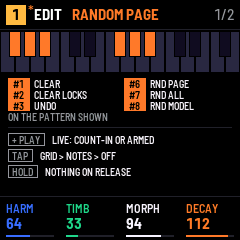
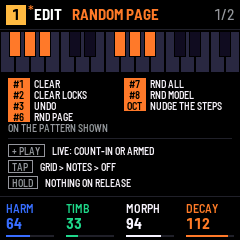
NUDGE: REC held, OCT- or OCT+ turns a STEP pattern's steps one step left or right, p-locks with them

Changed region(s): [[0.0292, 0.4375, 0.9625, 0.7875], [0.525, 0.3208, 0.9333, 0.4667]]

diff --git a/app/ui.c b/app/ui.c
@@ -264,6 +264,7 @@ static int cond_index(int c);
 static void step_on(q_step *s);
 static void step_default(q_step *s);
 static void attr_turn(q_step *s, int a, int d);
+static void nudge(int d);
 static const uint8_t SN_ATTR[3][4] = {{A_NOTE, A_LEN, A_VEL, A_PROB}, {A_RATCHET, A_COND, A_MICRO}, {A_SLIDE, A_ACCENT}};   /* P_SN1..3 */
 static int kit(void) { return ui.p->sound[ui.track].model == M_KIT; }
 
@@ -900,6 +901,8 @@ static void button(int b)
     case B_OCTUP:
         d = b == B_OCTUP ? 1 : -1;
         if (ui.rec == R_LIVE && ui.btn >> B_REC & 1u) {    /* REC held in LIVE: OCT- erases (live_erase) */
+        } else if (ui.btn >> B_REC & 1u) {             /* REC held: NUDGE */
+            nudge(d);
         } else if (grid_on() && ui.held) {     /* the held step's length */
             q_step *s = &pat()->steps[ui.held - 1];
             s->len = (uint8_t)len_step(s->len, d);
@@ -1120,13 +1123,14 @@ static void pattern_set(int n)
    paste it. A paste replaces what is there: it asks for a second press. The clipboards stay till power-off */
 enum { COPY_PAT = 1, COPY_AGAIN, COPY_PAT_PASTED, COPY_SND, COPY_SND_PASTED, COPY_NONE, COPY_UNDONE, COPY_REDONE,
        COPY_NO_UNDO, COPY_AGAIN_LOAD, COPY_UNSAVED_LOAD, COPY_AGAIN_PRINT, COPY_PRINTING, COPY_PRINTED, COPY_PLAY_PRINT,
-       COPY_DOUBLED, COPY_TOO_LONG, COPY_PROJECT, COPY_N = COPY_PROJECT + Q_PROJECTS };   /* (the header's messages for
+       COPY_DOUBLED, COPY_TOO_LONG, COPY_NUDGE_L, COPY_NUDGE_R, COPY_PROJECT, COPY_N = COPY_PROJECT + Q_PROJECTS };   /* (the header's messages for
                                                        the copies, UNDO and the projects: COPY_PROJECT + n, project n) */
 static const char *const COPY_NAME[COPY_N - 1] = {"PATTERN COPIED", "AGAIN: PASTE", "PATTERN PASTED", "SOUND COPIED",
                                                    "SOUND PASTED", "NOTHING COPIED", "UNDONE", "REDONE",
                                                    "NOTHING TO UNDO", "AGAIN: LOAD", "UNSAVED: LOAD?", "AGAIN: PRINT",
                                                    "PRINTING", "PRINTED", "PLAY TO PRINT", "LEN DOUBLED",
-                                                   "TOO LONG TO DOUBLE", "PROJECT 1", "PROJECT 2",
+                                                   "TOO LONG TO DOUBLE", "STEPS LEFT", "STEPS RIGHT", "PROJECT 1",
+                                                   "PROJECT 2",
                                                    "PROJECT 3", "PROJECT 4"};   /* COPY_* - 1 */
 static struct { q_pattern pat; q_sound snd; q_pad pads[Q_PADS]; uint8_t has_pat, has_snd; } clip;   /* (.bss: the pool
                                                                          keeps its 4 KB spare, fm1.toml pool_spare) */
@@ -1322,6 +1326,32 @@ static void double_key(void)
     t->len = (uint8_t)(2 * n);
     ui.dirty = 1;
     copy_msg(COPY_DOUBLED, MSG_MS);
+}
+
+/* REC held, OCT- or OCT+ out of LIVE: a STEP pattern's steps 1..LEN turned one step left or right, p-locks with them */
+static void nudge(int d)
+{
+    q_pattern *t;
+    q_step s;
+    int n, i;
+    if (pat()->src != SRC_STEP)
+        return;
+    undo_keep(UNDO_PAT);
+    t = pat(), n = t->len;
+    if (d > 0) {
+        s = t->steps[n - 1];
+        __builtin_memmove(&t->steps[1], &t->steps[0], (uint32_t)(n - 1) * sizeof s);
+        t->steps[0] = s;
+    } else {
+        s = t->steps[0];
+        __builtin_memmove(&t->steps[0], &t->steps[1], (uint32_t)(n - 1) * sizeof s);
+        t->steps[n - 1] = s;
+    }
+    for (i = 0; i < t->nlocks; i++)
+        if (t->locks[i].step < n)
+            t->locks[i].step = (uint8_t)((t->locks[i].step + d + n) % n);
+    ui.dirty = 1;
+    copy_msg(d > 0 ? COPY_NUDGE_R : COPY_NUDGE_L, MSG_MS);
 }
 
 /* a PRINT step lands on its rank (the generator's pattern does not read its steps); the last one makes it STEP: its
@@ -3407,6 +3437,7 @@ static void draw_layer(const q_view *v, int32_t oy)
             for (i = 0; i < 3; i++)     /* RANDOM's keys lit (layer_keys) */
                 if (v->scene.lkeys >> BLACK[5 + i] & 1u)
                     tags[n] = RND_TAG[i], names[n++] = RND_NAME[i];
+            tags[n] = "OCT", names[n++] = "NUDGE THE STEPS";
             combo[0][0] = "+ PLAY", combo[0][1] = "LIVE: COUNT-IN OR ARMED";
             combo[1][0] = "TAP", combo[1][1] = "GRID > NOTES > OFF";
             combo[2][0] = "HOLD", combo[2][1] = "NOTHING ON RELEASE";

diff --git a/app/docs/sequencer.md b/app/docs/sequencer.md
@@ -192,7 +192,7 @@ REC (short) disarms and the pattern keeps playing. PLAY stops and disarms.
 
 ## REC held
 
-![REC held: #1 CLEAR, #2 CLEAR LOCKS on the pattern shown, #3 UNDO, #6 RND PAGE, #7 RND ALL, + PLAY for LIVE, TAP for GRID > NOTES > OFF](img/seq-rec-map.png "REC's map")
+![REC held: #1 CLEAR, #2 CLEAR LOCKS on the pattern shown, #3 UNDO, #6 RND PAGE, #7 RND ALL, OCT NUDGE THE STEPS, + PLAY for LIVE, TAP for GRID > NOTES > OFF](img/seq-rec-map.png "REC's map")
 
 | REC held + | Not in LIVE or ARM | In LIVE |
 | --- | --- | --- |
@@ -201,10 +201,14 @@ REC (short) disarms and the pattern keeps playing. PLAY stops and disarms.
 | black key 2 | CLEAR LOCKS: removes its p-locks | — |
 | black key 3 | UNDO: the last CLEAR, CLEAR LOCKS, draw or paste put back; again, done again | — |
 | keys | — | erase their notes as the pattern crosses them |
-| OCT- | — | clears every step crossed |
+| OCT- | NUDGE: steps 1 to LEN one step left (step 1 goes last) | clears every step crossed |
+| OCT+ | NUDGE: steps 1 to LEN one step right (the last goes first) | — |
 
-UNDO puts back what the last CLEAR, CLEAR LOCKS, draw (black keys 6–8) or paste (SEQ held, black keys 2 and 4)
-changed: the pattern, the track's sound and pads, or GLO's settings, as they were just before. The header says
+NUDGE moves a STEP pattern's steps with their p-locks, `STEPS LEFT` or `STEPS RIGHT`: a hat line onto the offbeat, a
+LIVE take played a step late put back on the beat.
+
+UNDO puts back what the last CLEAR, CLEAR LOCKS, NUDGE, draw (black keys 6–8), paste (SEQ held, black keys 2 and 4),
+x2 or PRINT changed: the pattern, the track's sound and pads, or GLO's settings, as they were just before. The header says
 `UNDONE`; press again for `REDONE`, and so on. It keeps one action only, the last, and what you changed by hand since
 that action goes back with it. A SAVE ends it: then the header says `NOTHING TO UNDO`.
 
